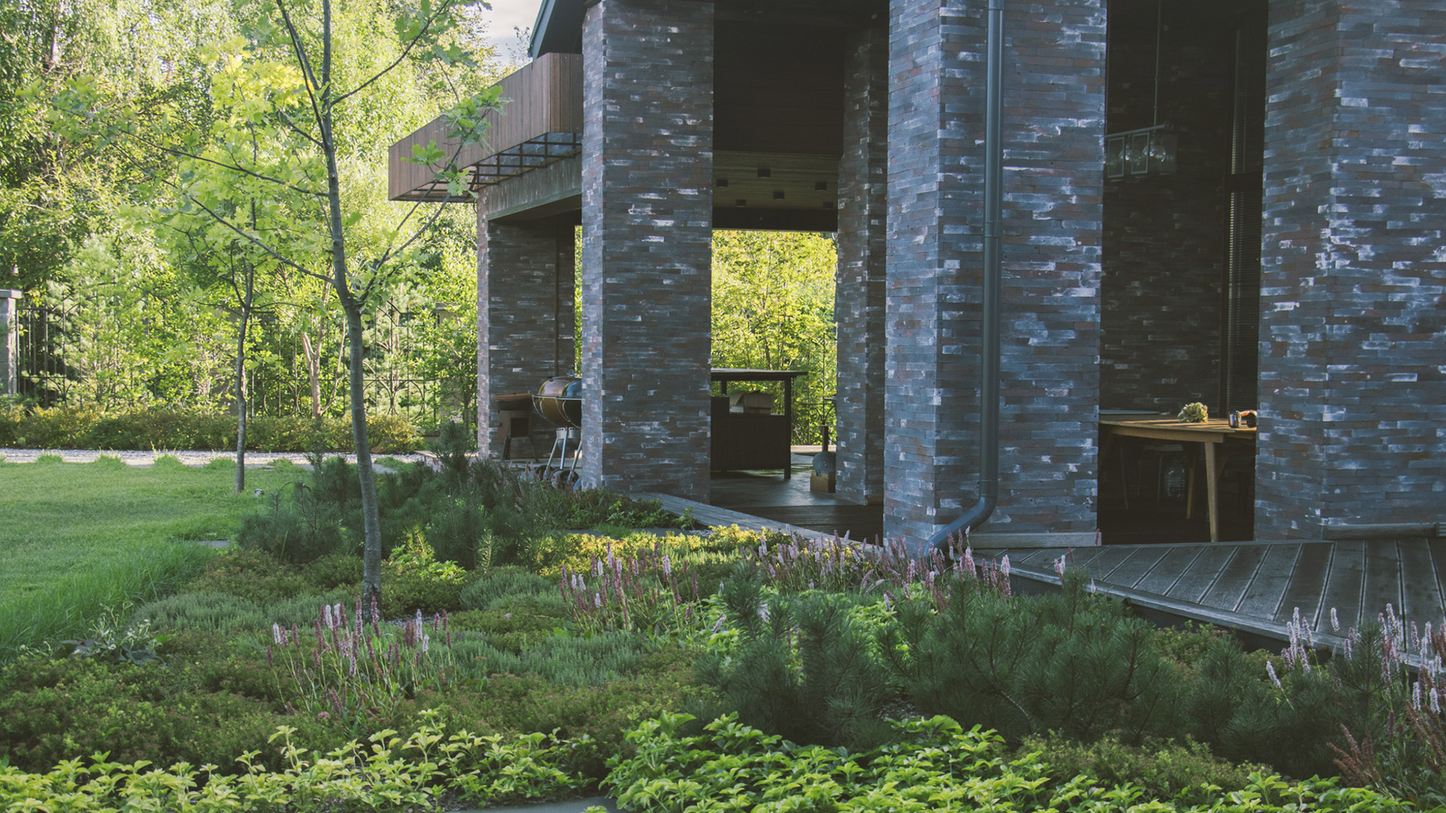
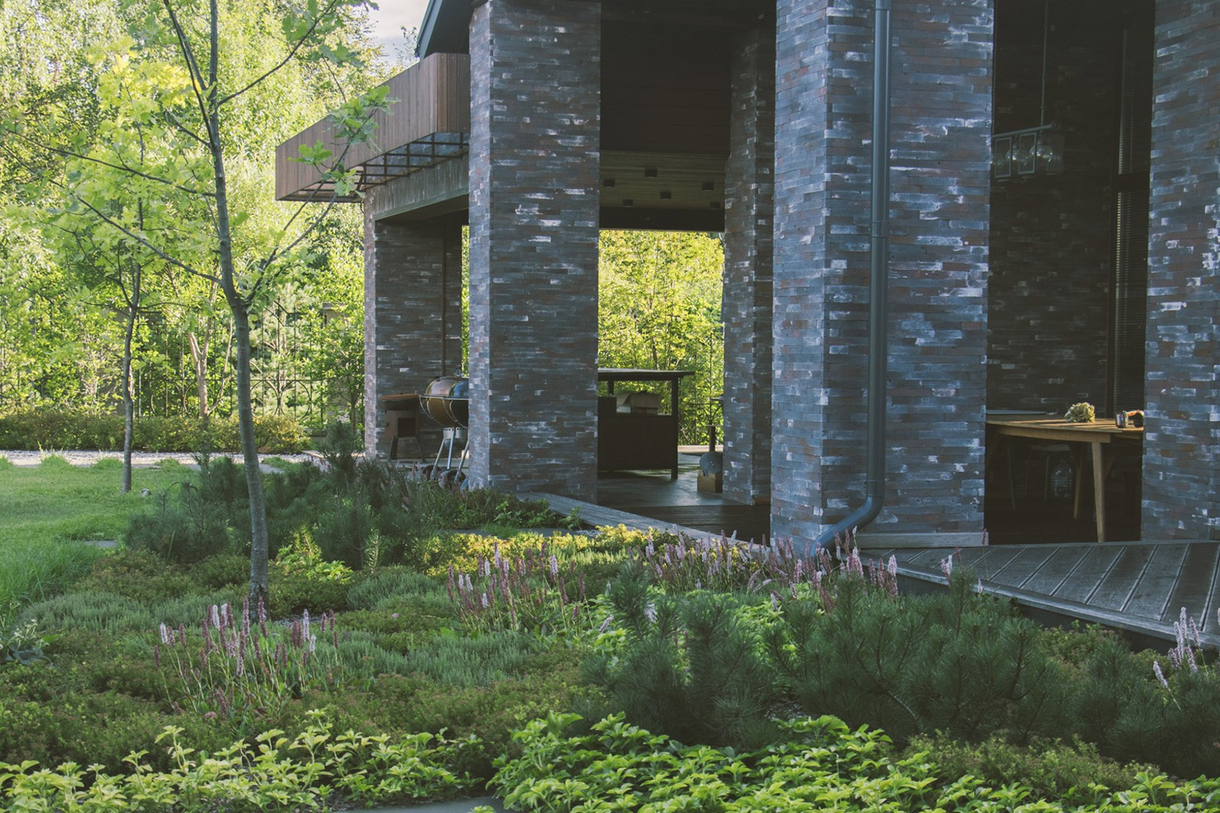
1

diff --git a/projects/Aquavilla.html b/projects/Aquavilla.html
@@ -7,7 +7,7 @@
       content="width=device-width, initial-scale=1, viewport-fit=cover"
     />
     <title>
-      Berkshire Lodge - Marcus Barnett Studio - Landscape Architecture - London
+      Aquavillage - Malikova Gardens - Landscape Architecture - Moscow
     </title>
 
     <link rel="stylesheet" href="../assets/css/mbs.min.1743581964.css" />
@@ -128,7 +128,7 @@
       <div id="contents" class="aspect-ratio-box">
         <div id="content_wrapper" class="aspect-ratio-box">
           <section class="text" data-module-num="1">
-            <h1>Aquavilla</h1>
+            <h1>Aquavillage - Malikova Gardens</h1>
             <p>
               In place of an awkward sloping lawn, a series of sculptural grass
               terraces envelop a new flat lawn, opening the garden to the
@@ -142,10 +142,10 @@
               <picture
                 ><source
                   media="(min-width: 1280px)"
-                  data-srcset="/assets/img/projects/berkshire-lodge/mbs-berkshire-lodge-1.1661240833.jpg" />
+                  data-srcset="/assets/img/projects/Аквавилла/1920x1080/9707-lg.jpg" />
                 <img
                   class="lazy"
-                  data-srcset="/assets/img/projects/berkshire-lodge/mbs-berkshire-lodge-1-sm.1661240832.jpg"
+                  data-srcset="/assets/img/projects/Аквавилла/1920x1080/9707-lg.jpg"
                   decoding="sync"
               /></picture>
             </div>
@@ -155,10 +155,10 @@
               <picture
                 ><source
                   media="(min-width: 1280px)"
-                  data-srcset="/assets/img/projects/berkshire-lodge/mbs-berkshire-lodge-2.1661240832.jpg" />
+                  data-srcset="/assets/img/projects/Аквавилла/duos/aqua-duo-1.jpg" />
                 <img
                   class="lazy"
-                  data-srcset="/assets/img/projects/berkshire-lodge/mbs-berkshire-lodge-2-sm.1661240833.jpg"
+                  data-srcset="/assets/img/projects/Аквавилла/duos/aqua-duo-1.jpg"
                   decoding="sync"
               /></picture>
             </div>
@@ -168,10 +168,10 @@
               <picture
                 ><source
                   media="(min-width: 1280px)"
-                  data-srcset="/assets/img/projects/berkshire-lodge/mbs-berkshire-lodge-3.1661240833.jpg" />
+                  data-srcset="/assets/img/projects/Аквавилла/1920x1080/0277-lg.jpg" />
                 <img
                   class="lazy"
-                  data-srcset="/assets/img/projects/berkshire-lodge/mbs-berkshire-lodge-3-sm.1661240833.jpg"
+                  data-srcset="/assets/img/projects/Аквавилла/1920x1080/0277-lg.jpg"
                   decoding="sync"
               /></picture>
             </div>
@@ -181,10 +181,10 @@
               <picture
                 ><source
                   media="(min-width: 1280px)"
-                  data-srcset="/assets/img/projects/berkshire-lodge/mbs-berkshire-lodge-4.1661240833.jpg" />
+                  data-srcset="/assets/img/projects/Аквавилла/1920x1080/9929-lg.jpg" />
                 <img
                   class="lazy"
-                  data-srcset="/assets/img/projects/berkshire-lodge/mbs-berkshire-lodge-4-sm.1661240833.jpg"
+                  data-srcset="/assets/img/projects/Аквавилла/1920x1080/9929-lg.jpg"
                   decoding="sync"
               /></picture>
             </div>
@@ -194,10 +194,10 @@
               <picture
                 ><source
                   media="(min-width: 1280px)"
-                  data-srcset="/assets/img/projects/berkshire-lodge/mbs-berkshire-lodge-5.1661240832.jpg" />
+                  data-srcset="/assets/img/projects/Аквавилла/duos/aqua-duo-3.png" />
                 <img
                   class="lazy"
-                  data-srcset="/assets/img/projects/berkshire-lodge/mbs-berkshire-lodge-5-sm.1661240833.jpg"
+                  data-srcset="/assets/img/projects/Аквавилла/duos/aqua-duo-3.png"
                   decoding="sync"
               /></picture>
             </div>
@@ -207,10 +207,10 @@
               <picture
                 ><source
                   media="(min-width: 1280px)"
-                  data-srcset="/assets/img/projects/berkshire-lodge/mbs-berkshire-lodge-6.1661240832.jpg" />
+                  data-srcset="/assets/img/projects/Аквавилла/duos/aqua-duo-2.png" />
                 <img
                   class="lazy"
-                  data-srcset="/assets/img/projects/berkshire-lodge/mbs-berkshire-lodge-6-sm.1661240832.jpg"
+                  data-srcset="/assets/img/projects/Аквавилла/duos/aqua-duo-2.png"
                   decoding="sync"
               /></picture>
             </div>
@@ -220,10 +220,10 @@
               <picture
                 ><source
                   media="(min-width: 1280px)"
-                  data-srcset="/assets/img/projects/berkshire-lodge/mbs-berkshire-lodge-7.1661240832.jpg" />
+                  data-srcset="/assets/img/projects/Аквавилла/1920x1080/0228-lg.jpg" />
                 <img
                   class="lazy"
-                  data-srcset="/assets/img/projects/berkshire-lodge/mbs-berkshire-lodge-7-sm.1661240832.jpg"
+                  data-srcset="/assets/img/projects/Аквавилла/1920x1080/0228-lg.jpg"
                   decoding="sync"
               /></picture>
             </div>
@@ -233,10 +233,10 @@
               <picture
                 ><source
                   media="(min-width: 1280px)"
-                  data-srcset="/assets/img/projects/berkshire-lodge/mbs-berkshire-lodge-8.1661240832.jpg" />
+                  data-srcset="/assets/img/projects/Аквавилла/1920x1080/9771-lg.jpg" />
                 <img
                   class="lazy"
-                  data-srcset="/assets/img/projects/berkshire-lodge/mbs-berkshire-lodge-8-sm.1661240832.jpg"
+                  data-srcset="/assets/img/projects/Аквавилла/1920x1080/9771-lg.jpg"
                   decoding="sync"
               /></picture>
             </div>
@@ -255,62 +255,10 @@
               <picture
                 ><source
                   media="(min-width: 1280px)"
-                  data-srcset="/assets/img/projects/berkshire-lodge/mbs-berkshire-lodge-9.1661240832.jpg" />
+                  data-srcset="/assets/img/projects/Аквавилла/1920x1080/9800-lg.jpg" />
                 <img
                   class="lazy"
-                  data-srcset="/assets/img/projects/berkshire-lodge/mbs-berkshire-lodge-9-sm.1661240832.jpg"
-                  decoding="sync"
-              /></picture>
-            </div>
-          </section>
-          <section class="image" data-module-num="12">
-            <div class="info-wrapper" style="--ratio: 71.717171717172%">
-              <picture
-                ><source
-                  media="(min-width: 1280px)"
-                  data-srcset="/assets/img/projects/berkshire-lodge/mbs-berkshire-lodge-10.1661240833.jpg" />
-                <img
-                  class="lazy"
-                  data-srcset="/assets/img/projects/berkshire-lodge/mbs-berkshire-lodge-10-sm.1661240832.jpg"
-                  decoding="sync"
-              /></picture>
-            </div>
-          </section>
-          <section class="image" data-module-num="13">
-            <div class="info-wrapper" style="--ratio: 71.717171717172%">
-              <picture
-                ><source
-                  media="(min-width: 1280px)"
-                  data-srcset="/assets/img/projects/berkshire-lodge/mbs-berkshire-lodge-11.1661240833.jpg" />
-                <img
-                  class="lazy"
-                  data-srcset="/assets/img/projects/berkshire-lodge/mbs-berkshire-lodge-11-sm.1661240833.jpg"
-                  decoding="sync"
-              /></picture>
-            </div>
-          </section>
-          <section class="image" data-module-num="14">
-            <div class="info-wrapper" style="--ratio: 66.666666666667%">
-              <picture
-                ><source
-                  media="(min-width: 1280px)"
-                  data-srcset="/assets/img/projects/berkshire-lodge/mbs-berkshire-lodge-12.1661240833.jpg" />
-                <img
-                  class="lazy"
-                  data-srcset="/assets/img/projects/berkshire-lodge/mbs-berkshire-lodge-12-sm.1661240833.jpg"
-                  decoding="sync"
-              /></picture>
-            </div>
-          </section>
-          <section class="image" data-module-num="15">
-            <div class="info-wrapper" style="--ratio: 66.666666666667%">
-              <picture
-                ><source
-                  media="(min-width: 1280px)"
-                  data-srcset="/assets/img/projects/berkshire-lodge/mbs-berkshire-lodge-13.1661240833.jpg" />
-                <img
-                  class="lazy"
-                  data-srcset="/assets/img/projects/berkshire-lodge/mbs-berkshire-lodge-13-sm.1661240833.jpg"
+                  data-srcset="/assets/img/projects/Аквавилла/1920x1080/9800-lg.jpg"
                   decoding="sync"
               /></picture>
             </div>
